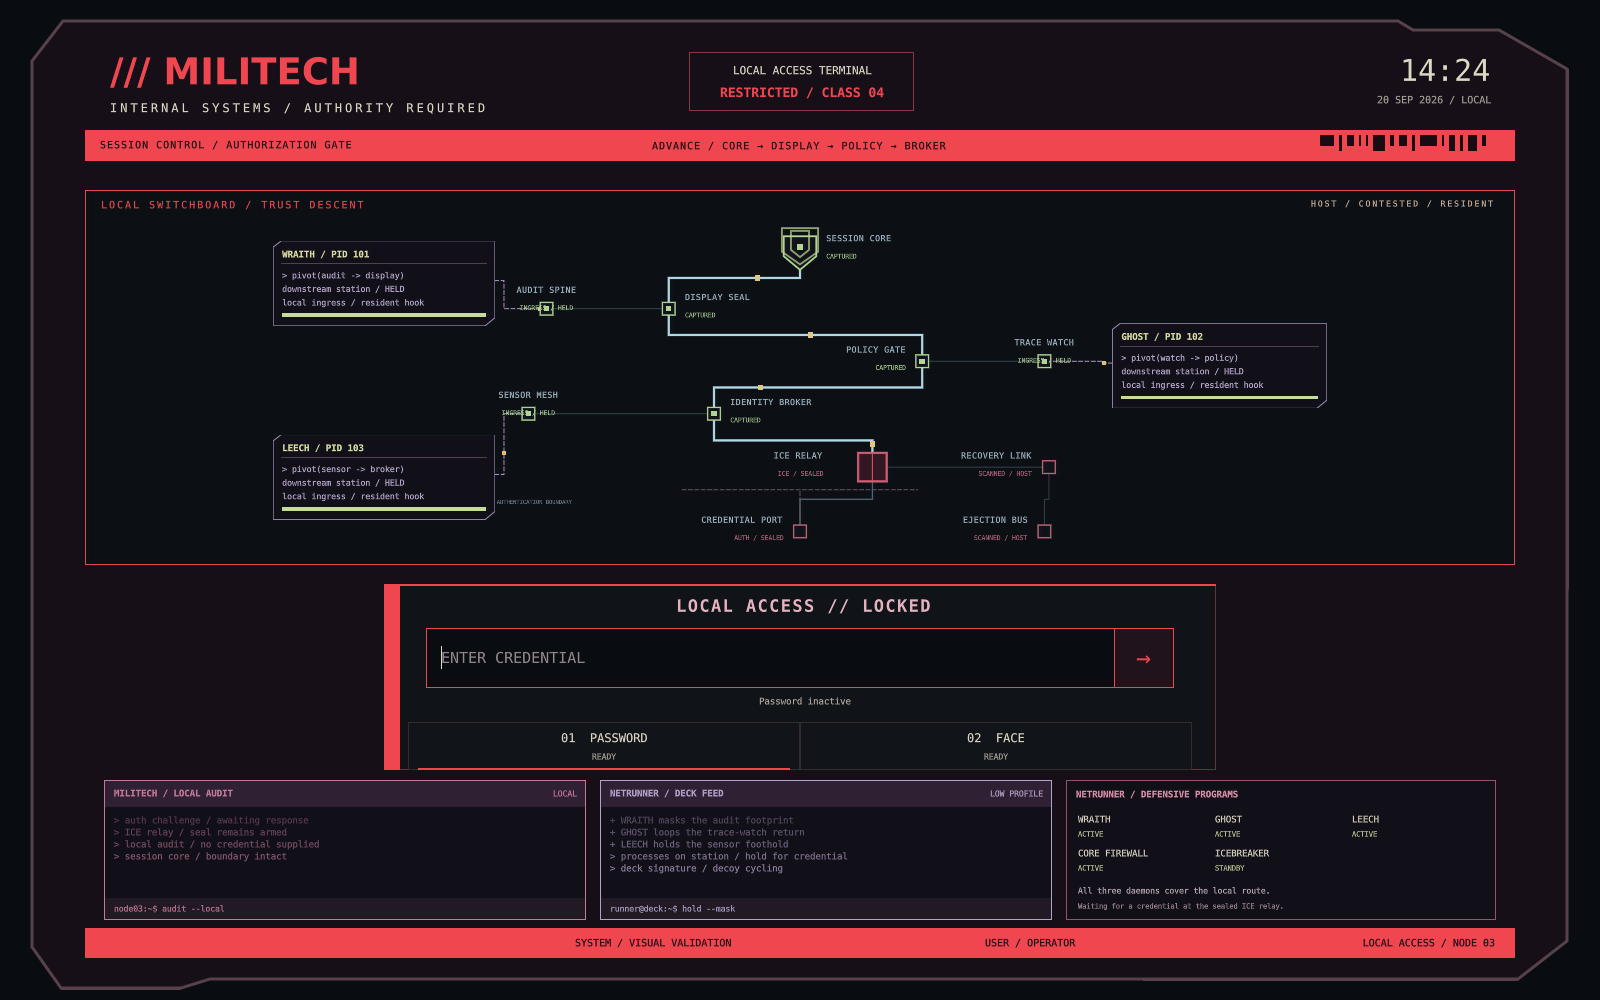
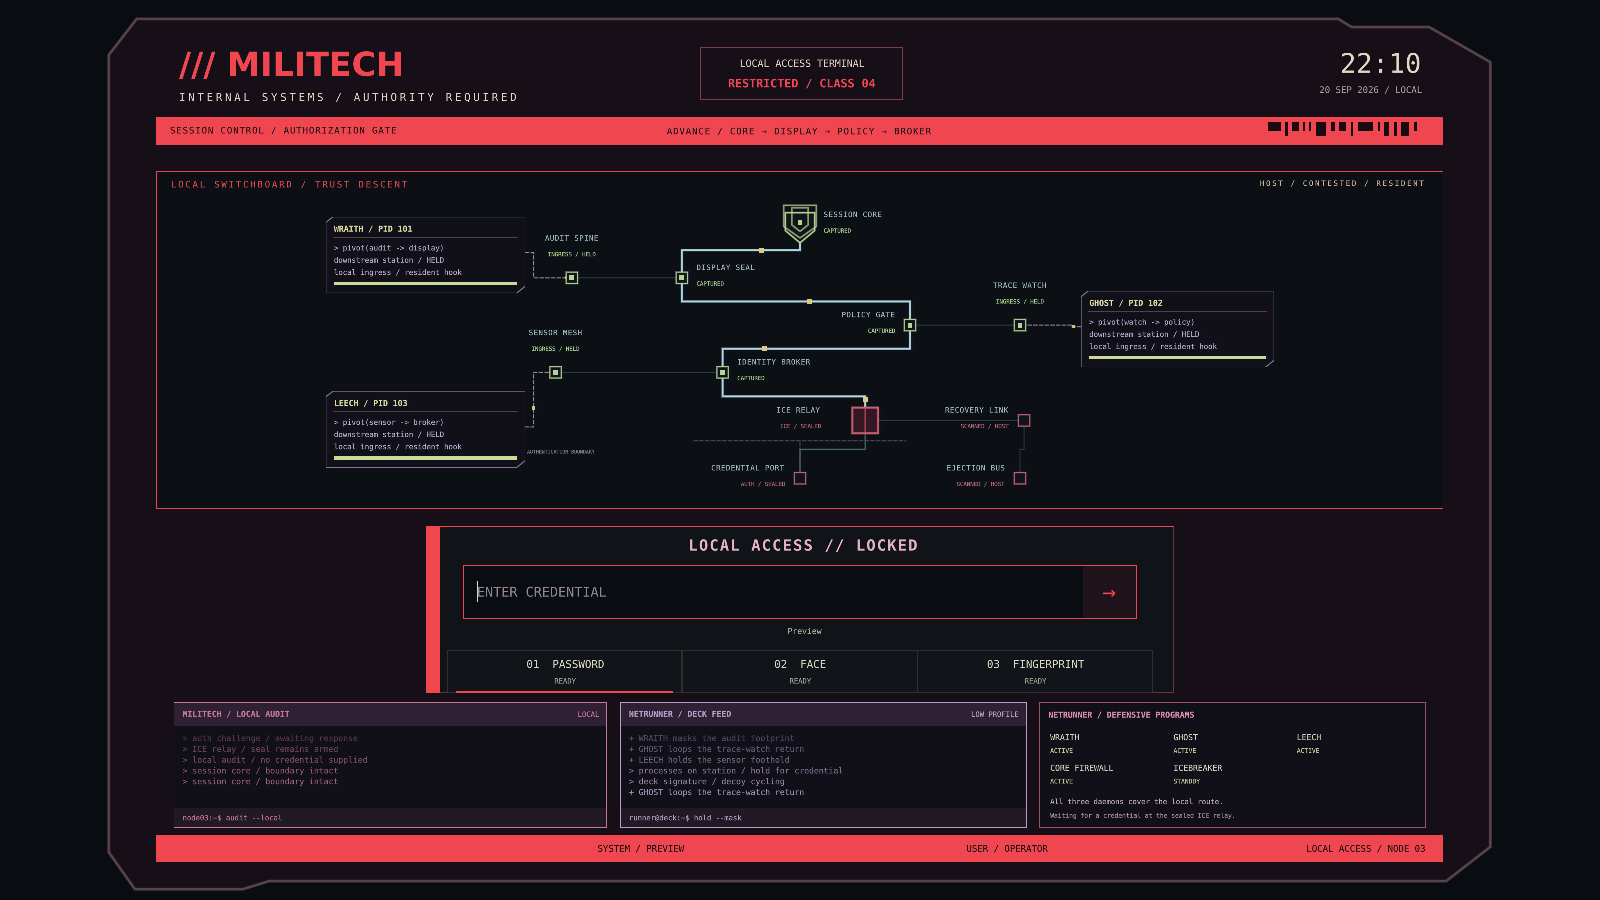
Fix branch-node labels and show the full animation in the README

diff --git a/quickshell/common/SwitchboardBoard.qml b/quickshell/common/SwitchboardBoard.qml
@@ -64,7 +64,8 @@ Item {
             id: station
             required property int index
             readonly property var node: board.frame.nodeStates[index]
-            readonly property var labelOffset: board.layout.labels[node.id] || [0,-18,'middle']
+            // Centered branch labels must clear the scan outline and tether.
+            readonly property var labelOffset: board.layout.labels[node.id] || [0,-46,'middle']
             readonly property color ink: node.owner === 'daemon' ? '#b6d794' : node.owner === 'contested' ? '#edc57d' : '#c1677c'
             x: node.x; y: node.y
             SwitchboardPath {

diff --git a/README.md b/README.md
@@ -4,14 +4,9 @@ A Cyberpunk/Militech screen for locking a Hyprland desktop or signing in through
 an optional greetd greeter. Both use the same native QuickShell interface. PAM
 handles lock authentication; greetd handles login and session launch.
 
-![Native lockscreen](docs/images/native-lock.png)
+![Lockscreen startup, failed attempt, ICEbreaker recovery and successful attempt](docs/images/lockscreen-demo.gif)
 
-<details>
-<summary>Watch the animation</summary>
-
-![Preview of a failed attempt and ICEbreaker recovery](docs/images/lockscreen-demo.gif)
-
-</details>
+[View a still image](docs/images/native-lock.png)
 
 ## Compatibility
 
